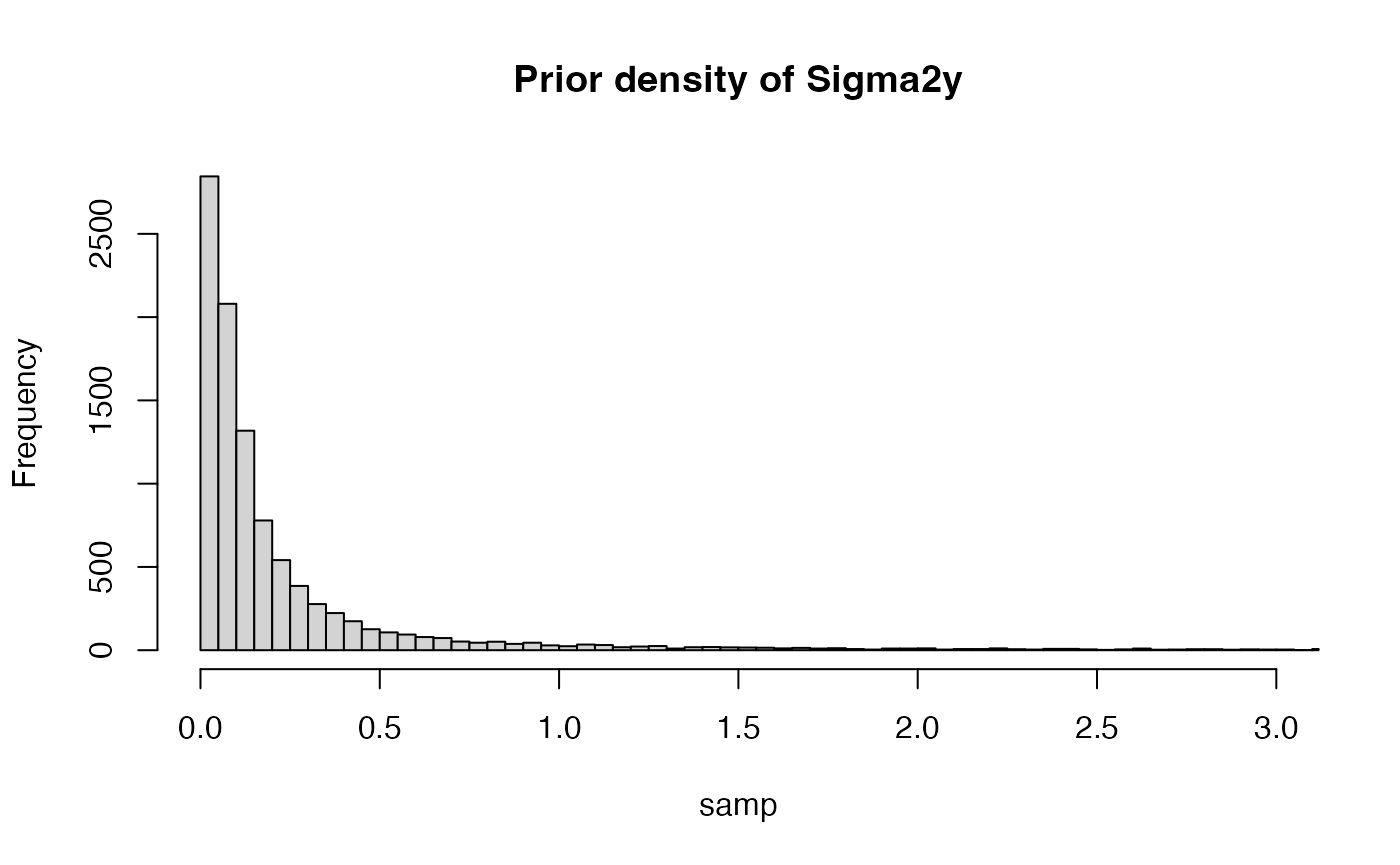
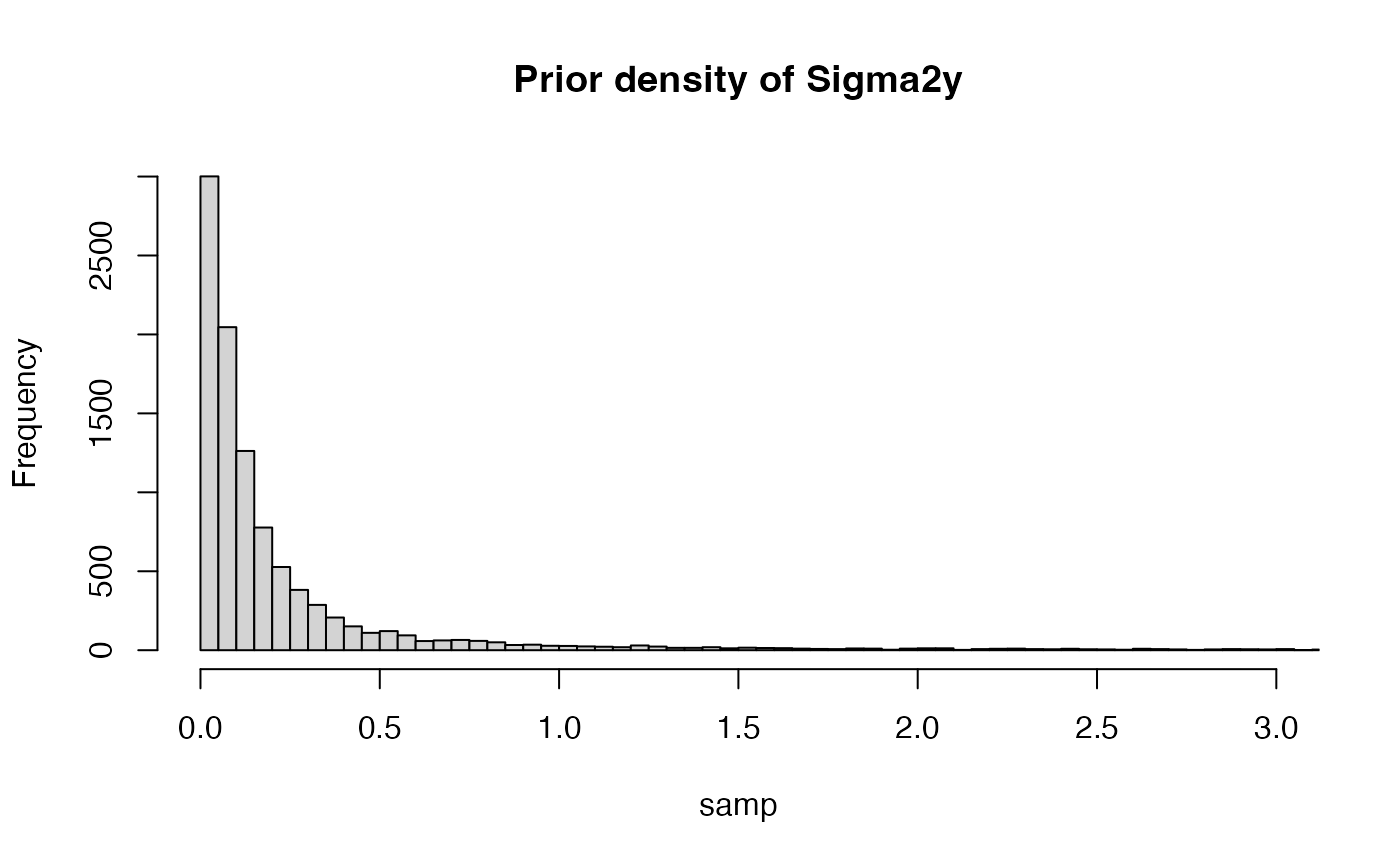
edit

diff --git a/docs/articles/OU-Models.html b/docs/articles/OU-Models.html
@@ -36,7 +36,7 @@
     <div id="navbar" class="collapse navbar-collapse ms-2">
       <ul class="navbar-nav me-auto">
 <li class="nav-item">
-  <a class="nav-link" href="../articles/index.html">Getting Started</a>
+  <a class="nav-link" href="../index.html">Getting Started</a>
 </li>
 <li class="nav-item">
   <a class="nav-link" href="../reference/">Reference</a>
@@ -281,13 +281,13 @@
 <div class="sourceCode" id="cb9"><pre class="downlit sourceCode r">
 <code class="sourceCode R"><span class="co">#abline(v=(c(log(2)/0.07142857,log(2)/1)), col="red", lwd=2, lty=2) #Lines for 1 Ma and length of tree (14 Ma) - </span>
 <span class="fu"><a href="https://rdrr.io/r/base/Extremes.html" class="external-link">min</a></span><span class="op">(</span><span class="va">samp</span><span class="op">)</span>
-<span class="co">#&gt; [1] 0.02707539</span>
+<span class="co">#&gt; [1] 0.03700201</span>
 <span class="fu"><a href="https://rdrr.io/r/base/Extremes.html" class="external-link">max</a></span><span class="op">(</span><span class="va">samp</span><span class="op">)</span>
-<span class="co">#&gt; [1] 294.6559</span>
+<span class="co">#&gt; [1] 358.436</span>
 <span class="fu"><a href="https://rdrr.io/r/base/Log.html" class="external-link">log</a></span><span class="op">(</span><span class="fl">2</span><span class="op">)</span><span class="op">/</span><span class="fu"><a href="https://rdrr.io/r/base/Extremes.html" class="external-link">min</a></span><span class="op">(</span><span class="va">samp</span><span class="op">)</span>
-<span class="co">#&gt; [1] 25.60063</span>
+<span class="co">#&gt; [1] 18.73269</span>
 <span class="fu"><a href="https://rdrr.io/r/base/Log.html" class="external-link">log</a></span><span class="op">(</span><span class="fl">2</span><span class="op">)</span><span class="op">/</span><span class="fu"><a href="https://rdrr.io/r/base/Extremes.html" class="external-link">max</a></span><span class="op">(</span><span class="va">samp</span><span class="op">)</span>
-<span class="co">#&gt; [1] 0.002352395</span>
+<span class="co">#&gt; [1] 0.00193381</span>
 
 <span class="va">quantiles</span> <span class="op">&lt;-</span> <span class="fu"><a href="https://rdrr.io/r/base/c.html" class="external-link">c</a></span><span class="op">(</span><span class="fl">0</span>, <span class="fl">0.01</span>, <span class="fl">0.025</span>,<span class="fl">0.10</span>, <span class="fl">0.25</span>, <span class="fl">0.5</span>, <span class="fl">0.75</span>,<span class="fl">0.90</span>,<span class="fl">0.95</span>, <span class="fl">0.975</span>, <span class="fl">0.99</span>, <span class="fl">1</span><span class="op">)</span>
 <span class="co">#hls &lt;- rlnorm(10000, meanlog=log(2)/par.alpha$meanlog, sdlog=log(2)/par.alpha$sdlog)</span>
@@ -295,7 +295,7 @@
 <span class="va">qs</span> <span class="op">&lt;-</span> <span class="fu"><a href="https://rdrr.io/r/stats/quantile.html" class="external-link">quantile</a></span><span class="op">(</span><span class="fu"><a href="https://rdrr.io/r/base/Log.html" class="external-link">log</a></span><span class="op">(</span><span class="fl">2</span><span class="op">)</span><span class="op">/</span><span class="va">samp</span>, <span class="va">quantiles</span><span class="op">)</span> <span class="co">## Use 'alfs' and math to calculate the quantiles of phylogenetic half-life</span>
 <span class="fu"><a href="https://rdrr.io/r/base/Round.html" class="external-link">round</a></span><span class="op">(</span><span class="va">qs</span>, <span class="fl">2</span><span class="op">)</span>
 <span class="co">#&gt;    0%    1%  2.5%   10%   25%   50%   75%   90%   95% 97.5%   99%  100% </span>
-<span class="co">#&gt;  0.00  0.01  0.02  0.04  0.09  0.20  0.47  1.02  1.56  2.31  3.41 25.60</span>
+<span class="co">#&gt;  0.00  0.01  0.02  0.04  0.09  0.20  0.45  1.01  1.58  2.37  3.60 18.73</span>
 
 <span class="fu"><a href="https://rdrr.io/r/graphics/hist.html" class="external-link">hist</a></span><span class="op">(</span><span class="op">(</span><span class="fu"><a href="https://rdrr.io/r/base/Log.html" class="external-link">log</a></span><span class="op">(</span><span class="fl">2</span><span class="op">)</span><span class="op">/</span><span class="va">samp</span><span class="op">)</span>, breaks<span class="op">=</span><span class="fl">10000</span>, main<span class="op">=</span><span class="st">"Prior density of half-life"</span>,xlim<span class="op">=</span><span class="fu"><a href="https://rdrr.io/r/base/c.html" class="external-link">c</a></span><span class="op">(</span><span class="fl">0</span>,<span class="fl">3</span><span class="op">)</span><span class="op">)</span>
 <span class="fu"><a href="https://rdrr.io/r/graphics/abline.html" class="external-link">abline</a></span><span class="op">(</span>v<span class="op">=</span><span class="op">(</span><span class="fu"><a href="https://rdrr.io/r/base/c.html" class="external-link">c</a></span><span class="op">(</span><span class="fl">0.04</span>,<span class="fl">1</span><span class="op">)</span><span class="op">)</span>, col<span class="op">=</span><span class="st">"red"</span>, lwd<span class="op">=</span><span class="fl">2</span>, lty<span class="op">=</span><span class="fl">2</span><span class="op">)</span> <span class="co">#Lines for 1 Ma and length of tree (27 Ma) - </span></code></pre></div>
@@ -325,13 +325,13 @@
 <div class="sourceCode" id="cb12"><pre class="downlit sourceCode r">
 <code class="sourceCode R"><span class="co">#abline(v=(c(log(2)/0.07142857,log(2)/1)), col="red", lwd=2, lty=2) #Lines for 1 Ma and length of tree (14 Ma) - </span>
 <span class="fu"><a href="https://rdrr.io/r/base/Extremes.html" class="external-link">min</a></span><span class="op">(</span><span class="va">samp</span><span class="op">)</span>
-<span class="co">#&gt; [1] 2.199475e-05</span>
+<span class="co">#&gt; [1] 6.191435e-06</span>
 <span class="fu"><a href="https://rdrr.io/r/base/Extremes.html" class="external-link">max</a></span><span class="op">(</span><span class="va">samp</span><span class="op">)</span>
-<span class="co">#&gt; [1] 567.6132</span>
+<span class="co">#&gt; [1] 350.6461</span>
 <span class="fu"><a href="https://rdrr.io/r/base/Log.html" class="external-link">log</a></span><span class="op">(</span><span class="fl">2</span><span class="op">)</span><span class="op">/</span><span class="fu"><a href="https://rdrr.io/r/base/Extremes.html" class="external-link">min</a></span><span class="op">(</span><span class="va">samp</span><span class="op">)</span>
-<span class="co">#&gt; [1] 31514.2</span>
+<span class="co">#&gt; [1] 111952.6</span>
 <span class="fu"><a href="https://rdrr.io/r/base/Log.html" class="external-link">log</a></span><span class="op">(</span><span class="fl">2</span><span class="op">)</span><span class="op">/</span><span class="fu"><a href="https://rdrr.io/r/base/Extremes.html" class="external-link">max</a></span><span class="op">(</span><span class="va">samp</span><span class="op">)</span>
-<span class="co">#&gt; [1] 0.001221161</span>
+<span class="co">#&gt; [1] 0.001976771</span>
 
 <span class="va">quantiles</span> <span class="op">&lt;-</span> <span class="fu"><a href="https://rdrr.io/r/base/c.html" class="external-link">c</a></span><span class="op">(</span><span class="fl">0</span>, <span class="fl">0.01</span>, <span class="fl">0.025</span>,<span class="fl">0.10</span>, <span class="fl">0.25</span>, <span class="fl">0.5</span>, <span class="fl">0.75</span>, <span class="fl">0.90</span>, <span class="fl">0.975</span>, <span class="fl">0.99</span>, <span class="fl">1</span><span class="op">)</span>
 <span class="co">#hls &lt;- rlnorm(10000, meanlog=log(2)/par.alpha$meanlog, sdlog=log(2)/par.alpha$sdlog)</span>
@@ -339,7 +339,7 @@
 <span class="va">qs</span> <span class="op">&lt;-</span> <span class="fu"><a href="https://rdrr.io/r/stats/quantile.html" class="external-link">quantile</a></span><span class="op">(</span><span class="va">samp</span>, <span class="va">quantiles</span><span class="op">)</span> <span class="co">## Use 'alfs' and math to calculate the quantiles of phylogenetic half-life</span>
 <span class="fu"><a href="https://rdrr.io/r/base/Round.html" class="external-link">round</a></span><span class="op">(</span><span class="va">qs</span>, <span class="fl">2</span><span class="op">)</span>
 <span class="co">#&gt;     0%     1%   2.5%    10%    25%    50%    75%    90%  97.5%    99%   100% </span>
-<span class="co">#&gt;   0.00   0.00   0.00   0.02   0.04   0.10   0.24   0.63   2.42   4.98 567.61</span>
+<span class="co">#&gt;   0.00   0.00   0.00   0.02   0.04   0.10   0.24   0.63   2.59   5.82 350.65</span>
 
 <span class="fu"><a href="https://rdrr.io/r/graphics/hist.html" class="external-link">hist</a></span><span class="op">(</span><span class="va">samp</span><span class="op">/</span><span class="op">(</span><span class="fl">2</span><span class="op">*</span><span class="fl">2</span><span class="op">)</span>, breaks<span class="op">=</span><span class="fl">10000</span>, main<span class="op">=</span><span class="st">"Prior density of Vy"</span>,xlim<span class="op">=</span><span class="fu"><a href="https://rdrr.io/r/base/c.html" class="external-link">c</a></span><span class="op">(</span><span class="fl">0</span>,<span class="fl">3</span><span class="op">)</span><span class="op">)</span></code></pre></div>
 <p><img src="OU-Models_files/figure-html/unnamed-chunk-6-2.png" width="700"></p>
@@ -364,15 +364,15 @@
 <span class="co">#&gt; post-warmup draws per chain=2000, total post-warmup draws=4000.</span>
 <span class="co">#&gt; </span>
 <span class="co">#&gt;           mean se_mean   sd 2.5%  25%  50%  75% 97.5% n_eff Rhat</span>
-<span class="co">#&gt; a         5.60    0.30 8.49 0.38 1.40 2.78 6.02 30.60   800    1</span>
-<span class="co">#&gt; hl        0.41    0.01 0.53 0.02 0.12 0.25 0.50  1.81  1399    1</span>
-<span class="co">#&gt; alpha     5.05    0.00 0.05 4.96 5.03 5.06 5.08  5.14  1019    1</span>
-<span class="co">#&gt; beta[1]   0.57    0.00 0.02 0.53 0.55 0.57 0.58  0.61  2033    1</span>
-<span class="co">#&gt; vy        0.02    0.00 0.01 0.01 0.01 0.01 0.02  0.05  1530    1</span>
-<span class="co">#&gt; r_squared 0.96    0.00 0.01 0.95 0.96 0.96 0.96  0.97   789    1</span>
-<span class="co">#&gt; sigma2_y  0.15    0.01 0.22 0.02 0.05 0.08 0.16  0.80   793    1</span>
+<span class="co">#&gt; a         5.50    0.23 7.57 0.42 1.42 2.91 6.27 27.36  1050    1</span>
+<span class="co">#&gt; hl        0.39    0.01 0.47 0.03 0.11 0.24 0.49  1.64  1465    1</span>
+<span class="co">#&gt; alpha     5.05    0.00 0.04 4.97 5.03 5.06 5.08  5.14  1912    1</span>
+<span class="co">#&gt; beta[1]   0.57    0.00 0.02 0.53 0.55 0.57 0.58  0.61  2346    1</span>
+<span class="co">#&gt; vy        0.02    0.00 0.01 0.01 0.01 0.01 0.02  0.05  2105    1</span>
+<span class="co">#&gt; r_squared 0.96    0.00 0.00 0.95 0.96 0.96 0.96  0.97  1053    1</span>
+<span class="co">#&gt; sigma2_y  0.15    0.01 0.19 0.02 0.05 0.08 0.17  0.74  1028    1</span>
 <span class="co">#&gt; </span>
-<span class="co">#&gt; Samples were drawn using NUTS(diag_e) at Wed Dec  8 22:39:53 2021.</span>
+<span class="co">#&gt; Samples were drawn using NUTS(diag_e) at Thu Dec  9 07:13:24 2021.</span>
 <span class="co">#&gt; For each parameter, n_eff is a crude measure of effective sample size,</span>
 <span class="co">#&gt; and Rhat is the potential scale reduction factor on split chains (at </span>
 <span class="co">#&gt; convergence, Rhat=1).</span>
@@ -411,18 +411,18 @@
 <span class="co">#&gt; 2 chains, each with iter=4000; warmup=2000; thin=1; </span>
 <span class="co">#&gt; post-warmup draws per chain=2000, total post-warmup draws=4000.</span>
 <span class="co">#&gt; </span>
-<span class="co">#&gt;               mean se_mean    sd  2.5%   25%   50%   75%  97.5% n_eff Rhat</span>
-<span class="co">#&gt; a            43.34    0.60 23.64 15.15 27.00 37.12 53.08 104.52  1562    1</span>
-<span class="co">#&gt; hl            0.02    0.00  0.01  0.01  0.01  0.02  0.03   0.05  2158    1</span>
-<span class="co">#&gt; alpha         5.05    0.00  0.03  4.99  5.04  5.06  5.07   5.11  2981    1</span>
-<span class="co">#&gt; beta[1]       0.59    0.00  0.02  0.55  0.57  0.59  0.60   0.63  3167    1</span>
-<span class="co">#&gt; beta_evol[1]  5.06    0.00  0.00  5.05  5.06  5.06  5.06   5.06  4294    1</span>
-<span class="co">#&gt; beta_evol[2]  0.57    0.00  0.00  0.57  0.57  0.57  0.57   0.57  2723    1</span>
-<span class="co">#&gt; vy            0.01    0.00  0.00  0.00  0.00  0.00  0.01   0.02  3382    1</span>
-<span class="co">#&gt; r_squared     0.96    0.00  0.00  0.95  0.96  0.96  0.96   0.97  1666    1</span>
-<span class="co">#&gt; sigma2_y      0.48    0.01  0.51  0.01  0.12  0.29  0.68   1.92  1627    1</span>
+<span class="co">#&gt;               mean se_mean    sd  2.5%   25%   50%   75% 97.5% n_eff Rhat</span>
+<span class="co">#&gt; a            41.48    0.47 22.04 14.78 26.71 36.02 50.35 99.54  2181    1</span>
+<span class="co">#&gt; hl            0.02    0.00  0.01  0.01  0.01  0.02  0.03  0.05  2136    1</span>
+<span class="co">#&gt; alpha         5.06    0.00  0.03  4.99  5.04  5.06  5.08  5.12  2575    1</span>
+<span class="co">#&gt; beta[1]       0.59    0.00  0.02  0.55  0.57  0.59  0.60  0.63  2922    1</span>
+<span class="co">#&gt; beta_evol[1]  5.06    0.00  0.00  5.05  5.06  5.06  5.06  5.06  4330    1</span>
+<span class="co">#&gt; beta_evol[2]  0.57    0.00  0.00  0.57  0.57  0.57  0.57  0.57  2810    1</span>
+<span class="co">#&gt; vy            0.01    0.00  0.00  0.00  0.00  0.00  0.01  0.02  3333    1</span>
+<span class="co">#&gt; r_squared     0.96    0.00  0.00  0.95  0.96  0.96  0.96  0.97  1855    1</span>
+<span class="co">#&gt; sigma2_y      0.45    0.01  0.46  0.01  0.12  0.29  0.62  1.78  2073    1</span>
 <span class="co">#&gt; </span>
-<span class="co">#&gt; Samples were drawn using NUTS(diag_e) at Wed Dec  8 22:44:31 2021.</span>
+<span class="co">#&gt; Samples were drawn using NUTS(diag_e) at Thu Dec  9 07:18:23 2021.</span>
 <span class="co">#&gt; For each parameter, n_eff is a crude measure of effective sample size,</span>
 <span class="co">#&gt; and Rhat is the potential scale reduction factor on split chains (at </span>
 <span class="co">#&gt; convergence, Rhat=1).</span>
@@ -451,7 +451,7 @@
 <span class="va">lml.fit.adaptive</span><span class="op">&lt;-</span><span class="fu"><a href="https://rdrr.io/pkg/bridgesampling/man/bridge_sampler.html" class="external-link">bridge_sampler</a></span><span class="op">(</span><span class="va">fit.adaptive</span>,silent<span class="op">=</span><span class="cn">TRUE</span><span class="op">)</span>
 <span class="va">BF_att</span> <span class="op">&lt;-</span> <span class="fu">bridgesampling</span><span class="fu">::</span><span class="fu"><a href="https://rdrr.io/pkg/bridgesampling/man/bf.html" class="external-link">bf</a></span><span class="op">(</span><span class="va">lml.fit.direct</span>, <span class="va">lml.fit.adaptive</span><span class="op">)</span>
 <span class="va">BF_att</span>
-<span class="co">#&gt; Estimated Bayes factor in favor of lml.fit.direct over lml.fit.adaptive: 33.07104</span></code></pre></div>
+<span class="co">#&gt; Estimated Bayes factor in favor of lml.fit.direct over lml.fit.adaptive: 33.96094</span></code></pre></div>
 <p>We find that the data is 5.2 more likely under a model that assumes a direct effect model rather than af adaptive model.</p>
 </div>
 <div class="section level2">
@@ -467,12 +467,12 @@
 <span class="co">#&gt; post-warmup draws per chain=2000, total post-warmup draws=4000.</span>
 <span class="co">#&gt; </span>
 <span class="co">#&gt;           mean se_mean   sd 2.5%  25%  50%  75% 97.5% n_eff Rhat</span>
-<span class="co">#&gt; alpha     5.05       0 0.08 4.88 5.00 5.05 5.11  5.22  2634    1</span>
-<span class="co">#&gt; beta[1]   0.56       0 0.02 0.51 0.54 0.56 0.57  0.60  3301    1</span>
-<span class="co">#&gt; r_squared 0.99       0 0.01 0.98 0.99 0.99 0.99  0.99  2675    1</span>
-<span class="co">#&gt; sigma2_y  0.03       0 0.01 0.01 0.02 0.02 0.03  0.05  2463    1</span>
+<span class="co">#&gt; alpha     5.05       0 0.08 4.88 5.00 5.05 5.11  5.22  3079    1</span>
+<span class="co">#&gt; beta[1]   0.56       0 0.02 0.51 0.54 0.56 0.57  0.60  3531    1</span>
+<span class="co">#&gt; r_squared 0.99       0 0.01 0.98 0.99 0.99 0.99  0.99  2666    1</span>
+<span class="co">#&gt; sigma2_y  0.03       0 0.01 0.01 0.02 0.02 0.03  0.05  2971    1</span>
 <span class="co">#&gt; </span>
-<span class="co">#&gt; Samples were drawn using NUTS(diag_e) at Wed Dec  8 22:47:14 2021.</span>
+<span class="co">#&gt; Samples were drawn using NUTS(diag_e) at Thu Dec  9 07:21:08 2021.</span>
 <span class="co">#&gt; For each parameter, n_eff is a crude measure of effective sample size,</span>
 <span class="co">#&gt; and Rhat is the potential scale reduction factor on split chains (at </span>
 <span class="co">#&gt; convergence, Rhat=1).</span>
@@ -502,7 +502,7 @@
 
 <span class="va">BF_att</span> <span class="op">&lt;-</span> <span class="fu">bridgesampling</span><span class="fu">::</span><span class="fu"><a href="https://rdrr.io/pkg/bridgesampling/man/bf.html" class="external-link">bf</a></span><span class="op">(</span><span class="va">lml.fit.direct</span>, <span class="va">lml.fit.BM</span><span class="op">)</span>
 <span class="va">BF_att</span>
-<span class="co">#&gt; Estimated Bayes factor in favor of lml.fit.direct over lml.fit.BM: 1.31579</span></code></pre></div>
+<span class="co">#&gt; Estimated Bayes factor in favor of lml.fit.direct over lml.fit.BM: 1.30749</span></code></pre></div>
 <p>Here the direct fit model has a Bayes Factor of 0.7 over the BM model, which makes sense for this data as the estimated phylogenetic half life is quite long, 65% the length of the phylogeny.</p>
 </div>
 <div class="section level2">

diff --git a/docs/articles/OU-Models-Prediction.html b/docs/articles/OU-Models-Prediction.html
@@ -36,7 +36,7 @@
     <div id="navbar" class="collapse navbar-collapse ms-2">
       <ul class="navbar-nav me-auto">
 <li class="nav-item">
-  <a class="nav-link" href="../articles/index.html">Getting Started</a>
+  <a class="nav-link" href="../index.html">Getting Started</a>
 </li>
 <li class="nav-item">
   <a class="nav-link" href="../reference/">Reference</a>
@@ -273,17 +273,17 @@
 <span class="co">#&gt; post-warmup draws per chain=2000, total post-warmup draws=4000.</span>
 <span class="co">#&gt; </span>
 <span class="co">#&gt;                      mean se_mean   sd  2.5%   25%   50%   75% 97.5% n_eff Rhat</span>
-<span class="co">#&gt; a                    6.05    0.36 9.60  0.43  1.44  3.02  6.56 31.15   700    1</span>
-<span class="co">#&gt; hl                   0.39    0.01 0.50  0.02  0.11  0.23  0.48  1.62  1605    1</span>
-<span class="co">#&gt; alpha                5.07    0.00 0.04  5.00  5.04  5.06  5.09  5.15  1726    1</span>
-<span class="co">#&gt; beta[1]              0.57    0.00 0.02  0.53  0.56  0.57  0.58  0.61  2387    1</span>
-<span class="co">#&gt; r_squared            0.96    0.00 0.00  0.95  0.96  0.96  0.97  0.97  1210    1</span>
-<span class="co">#&gt; sigma2_y             0.16    0.01 0.24  0.02  0.04  0.08  0.17  0.85   560    1</span>
-<span class="co">#&gt; RMSE                 0.29    0.00 0.03  0.25  0.28  0.29  0.31  0.35  3011    1</span>
-<span class="co">#&gt; RMSE_mu              0.27    0.00 0.02  0.26  0.26  0.26  0.27  0.32  1135    1</span>
-<span class="co">#&gt; X_pred_fos_means[1] -0.47    0.00 0.18 -0.82 -0.59 -0.48 -0.36 -0.13  3538    1</span>
+<span class="co">#&gt; a                    6.06    0.29 9.35  0.43  1.44  2.87  6.64 33.50  1071    1</span>
+<span class="co">#&gt; hl                   0.39    0.01 0.49  0.02  0.10  0.24  0.48  1.62  1592    1</span>
+<span class="co">#&gt; alpha                5.07    0.00 0.04  5.00  5.04  5.06  5.09  5.15  1941    1</span>
+<span class="co">#&gt; beta[1]              0.57    0.00 0.02  0.53  0.56  0.57  0.58  0.61  2455    1</span>
+<span class="co">#&gt; r_squared            0.96    0.00 0.00  0.95  0.96  0.96  0.97  0.97  1087    1</span>
+<span class="co">#&gt; sigma2_y             0.16    0.01 0.24  0.02  0.04  0.08  0.17  0.90   955    1</span>
+<span class="co">#&gt; RMSE                 0.29    0.00 0.03  0.25  0.28  0.29  0.31  0.35  3309    1</span>
+<span class="co">#&gt; RMSE_mu              0.27    0.00 0.02  0.26  0.26  0.26  0.27  0.31   870    1</span>
+<span class="co">#&gt; X_pred_fos_means[1] -0.48    0.00 0.17 -0.82 -0.59 -0.48 -0.36 -0.14  3324    1</span>
 <span class="co">#&gt; </span>
-<span class="co">#&gt; Samples were drawn using NUTS(diag_e) at Wed Dec  8 22:28:50 2021.</span>
+<span class="co">#&gt; Samples were drawn using NUTS(diag_e) at Thu Dec  9 07:02:42 2021.</span>
 <span class="co">#&gt; For each parameter, n_eff is a crude measure of effective sample size,</span>
 <span class="co">#&gt; and Rhat is the potential scale reduction factor on split chains (at </span>
 <span class="co">#&gt; convergence, Rhat=1).</span>
@@ -469,17 +469,17 @@
 <span class="co">#&gt; post-warmup draws per chain=2000, total post-warmup draws=4000.</span>
 <span class="co">#&gt; </span>
 <span class="co">#&gt;                     mean se_mean   sd 2.5%  25%  50%  75% 97.5% n_eff Rhat</span>
-<span class="co">#&gt; a                   5.75    0.32 9.29 0.38 1.32 2.72 6.29 29.68   830    1</span>
-<span class="co">#&gt; hl                  0.42    0.01 0.55 0.02 0.11 0.25 0.53  1.81  1611    1</span>
-<span class="co">#&gt; alpha               5.07    0.00 0.04 4.99 5.04 5.06 5.09  5.15  1706    1</span>
-<span class="co">#&gt; beta[1]             0.57    0.00 0.02 0.53 0.55 0.57 0.58  0.61  2212    1</span>
-<span class="co">#&gt; r_squared           0.96    0.00 0.00 0.95 0.96 0.96 0.97  0.97  1065    1</span>
-<span class="co">#&gt; sigma2_y            0.15    0.01 0.23 0.02 0.04 0.07 0.16  0.77   804    1</span>
-<span class="co">#&gt; RMSE                0.21    0.00 0.02 0.17 0.20 0.21 0.23  0.26  3496    1</span>
-<span class="co">#&gt; RMSE_mu             0.15    0.00 0.01 0.15 0.15 0.15 0.16  0.18   960    1</span>
-<span class="co">#&gt; Y_pred_fos_means[1] 5.09    0.00 0.13 4.84 5.01 5.09 5.17  5.34  3436    1</span>
+<span class="co">#&gt; a                   6.04    0.26 9.27 0.42 1.47 2.95 6.62 32.45  1238    1</span>
+<span class="co">#&gt; hl                  0.39    0.01 0.57 0.02 0.10 0.24 0.47  1.66  1668    1</span>
+<span class="co">#&gt; alpha               5.07    0.00 0.04 5.00 5.04 5.06 5.09  5.15  2171    1</span>
+<span class="co">#&gt; beta[1]             0.57    0.00 0.02 0.53 0.56 0.57 0.58  0.60  2445    1</span>
+<span class="co">#&gt; r_squared           0.96    0.00 0.00 0.95 0.96 0.96 0.97  0.97  1179    1</span>
+<span class="co">#&gt; sigma2_y            0.16    0.01 0.23 0.02 0.04 0.08 0.17  0.82  1224    1</span>
+<span class="co">#&gt; RMSE                0.21    0.00 0.02 0.17 0.20 0.21 0.23  0.27  3770    1</span>
+<span class="co">#&gt; RMSE_mu             0.15    0.00 0.01 0.15 0.15 0.15 0.16  0.18  1290    1</span>
+<span class="co">#&gt; Y_pred_fos_means[1] 5.09    0.00 0.13 4.84 5.01 5.09 5.17  5.35  3615    1</span>
 <span class="co">#&gt; </span>
-<span class="co">#&gt; Samples were drawn using NUTS(diag_e) at Wed Dec  8 22:34:17 2021.</span>
+<span class="co">#&gt; Samples were drawn using NUTS(diag_e) at Thu Dec  9 07:07:59 2021.</span>
 <span class="co">#&gt; For each parameter, n_eff is a crude measure of effective sample size,</span>
 <span class="co">#&gt; and Rhat is the potential scale reduction factor on split chains (at </span>
 <span class="co">#&gt; convergence, Rhat=1).</span>

diff --git a/docs/404.html b/docs/404.html
@@ -34,7 +34,7 @@
     <div id="navbar" class="collapse navbar-collapse ms-2">
       <ul class="navbar-nav me-auto">
 <li class="nav-item">
-  <a class="nav-link" href="https://github.com/mark-grabowski/blouch/articles/index.html">Getting Started</a>
+  <a class="nav-link" href="https://github.com/mark-grabowski/blouch/index.html">Getting Started</a>
 </li>
 <li class="nav-item">
   <a class="nav-link" href="https://github.com/mark-grabowski/blouch/reference/">Reference</a>

diff --git a/docs/reference/sigma.X.estimate.html b/docs/reference/sigma.X.estimate.html
@@ -27,7 +27,7 @@ It includes the function sigma.X.estimate, taken from the R Pacakge Slouch (Kopp
 
     <div id="navbar" class="collapse navbar-collapse ms-2">
       <ul class="navbar-nav me-auto"><li class="nav-item">
-  <a class="nav-link" href="../articles/index.html">Getting Started</a>
+  <a class="nav-link" href="../index.html">Getting Started</a>
 </li>
 <li class="active nav-item">
   <a class="nav-link" href="../reference/">Reference</a>

diff --git a/docs/articles/index.html b/docs/articles/index.html
@@ -18,8 +18,8 @@
     </button>
 
     <div id="navbar" class="collapse navbar-collapse ms-2">
-      <ul class="navbar-nav me-auto"><li class="active nav-item">
-  <a class="nav-link" href="../articles/index.html">Getting Started</a>
+      <ul class="navbar-nav me-auto"><li class="nav-item">
+  <a class="nav-link" href="../index.html">Getting Started</a>
 </li>
 <li class="nav-item">
   <a class="nav-link" href="../reference/">Reference</a>

diff --git a/docs/index.html b/docs/index.html
@@ -35,8 +35,8 @@
 
     <div id="navbar" class="collapse navbar-collapse ms-2">
       <ul class="navbar-nav me-auto">
-<li class="nav-item">
-  <a class="nav-link" href="articles/index.html">Getting Started</a>
+<li class="active nav-item">
+  <a class="nav-link" href="index.html">Getting Started</a>
 </li>
 <li class="nav-item">
   <a class="nav-link" href="reference/">Reference</a>

diff --git a/docs/reference/blouch-package.html b/docs/reference/blouch-package.html
@@ -19,7 +19,7 @@
 
     <div id="navbar" class="collapse navbar-collapse ms-2">
       <ul class="navbar-nav me-auto"><li class="nav-item">
-  <a class="nav-link" href="../articles/index.html">Getting Started</a>
+  <a class="nav-link" href="../index.html">Getting Started</a>
 </li>
 <li class="active nav-item">
   <a class="nav-link" href="../reference/">Reference</a>

diff --git a/docs/reference/index.html b/docs/reference/index.html
@@ -19,7 +19,7 @@
 
     <div id="navbar" class="collapse navbar-collapse ms-2">
       <ul class="navbar-nav me-auto"><li class="nav-item">
-  <a class="nav-link" href="../articles/index.html">Getting Started</a>
+  <a class="nav-link" href="../index.html">Getting Started</a>
 </li>
 <li class="active nav-item">
   <a class="nav-link" href="../reference/">Reference</a>

diff --git a/docs/news/index.html b/docs/news/index.html
@@ -19,7 +19,7 @@
 
     <div id="navbar" class="collapse navbar-collapse ms-2">
       <ul class="navbar-nav me-auto"><li class="nav-item">
-  <a class="nav-link" href="../articles/index.html">Getting Started</a>
+  <a class="nav-link" href="../index.html">Getting Started</a>
 </li>
 <li class="nav-item">
   <a class="nav-link" href="../reference/">Reference</a>

diff --git a/docs/LICENSE-text.html b/docs/LICENSE-text.html
@@ -19,7 +19,7 @@
 
     <div id="navbar" class="collapse navbar-collapse ms-2">
       <ul class="navbar-nav me-auto"><li class="nav-item">
-  <a class="nav-link" href="articles/index.html">Getting Started</a>
+  <a class="nav-link" href="index.html">Getting Started</a>
 </li>
 <li class="nav-item">
   <a class="nav-link" href="reference/">Reference</a>

diff --git a/docs/authors.html b/docs/authors.html
@@ -19,7 +19,7 @@
 
     <div id="navbar" class="collapse navbar-collapse ms-2">
       <ul class="navbar-nav me-auto"><li class="nav-item">
-  <a class="nav-link" href="articles/index.html">Getting Started</a>
+  <a class="nav-link" href="index.html">Getting Started</a>
 </li>
 <li class="nav-item">
   <a class="nav-link" href="reference/">Reference</a>
